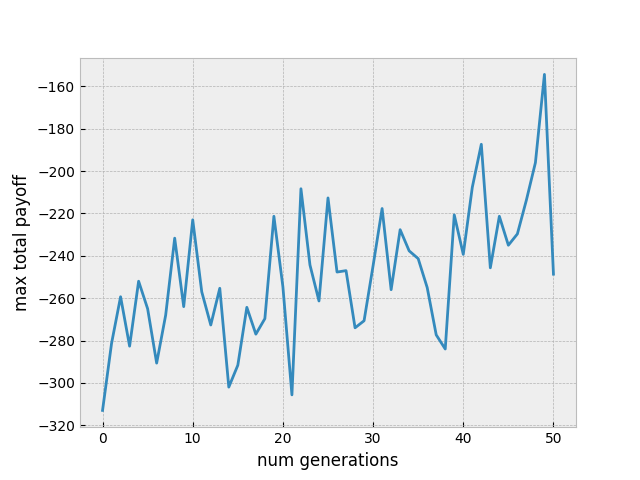
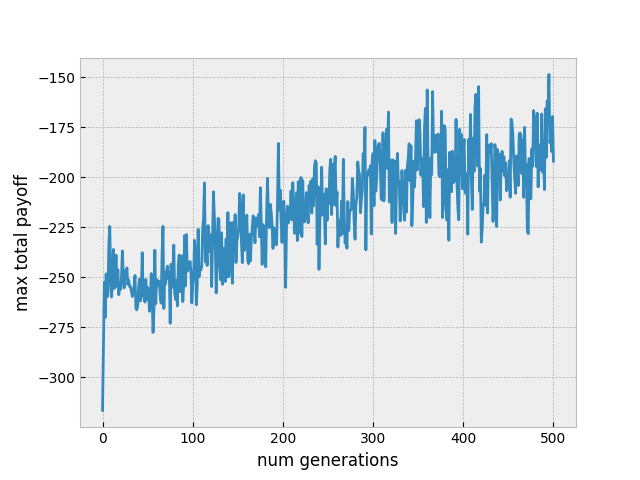
tested

diff --git a/src/tic_tac_toe/fogel/test_fogel.py b/src/tic_tac_toe/fogel/test_fogel.py
@@ -45,9 +45,9 @@ def calc_average_scores(trials):
     return averages
 
 
-trials = evolve_neural_net(20, 150, print_iter=True)
-print(trials)
-print(calc_average_scores(trials))
+trials = evolve_neural_net(40, 800, print_iter=True)
+# print(trials)
+# print(calc_average_scores(trials))
 
 x_values = [_ for _ in range(len(trials[0]))]
 y_values = list(calc_average_scores(trials))
